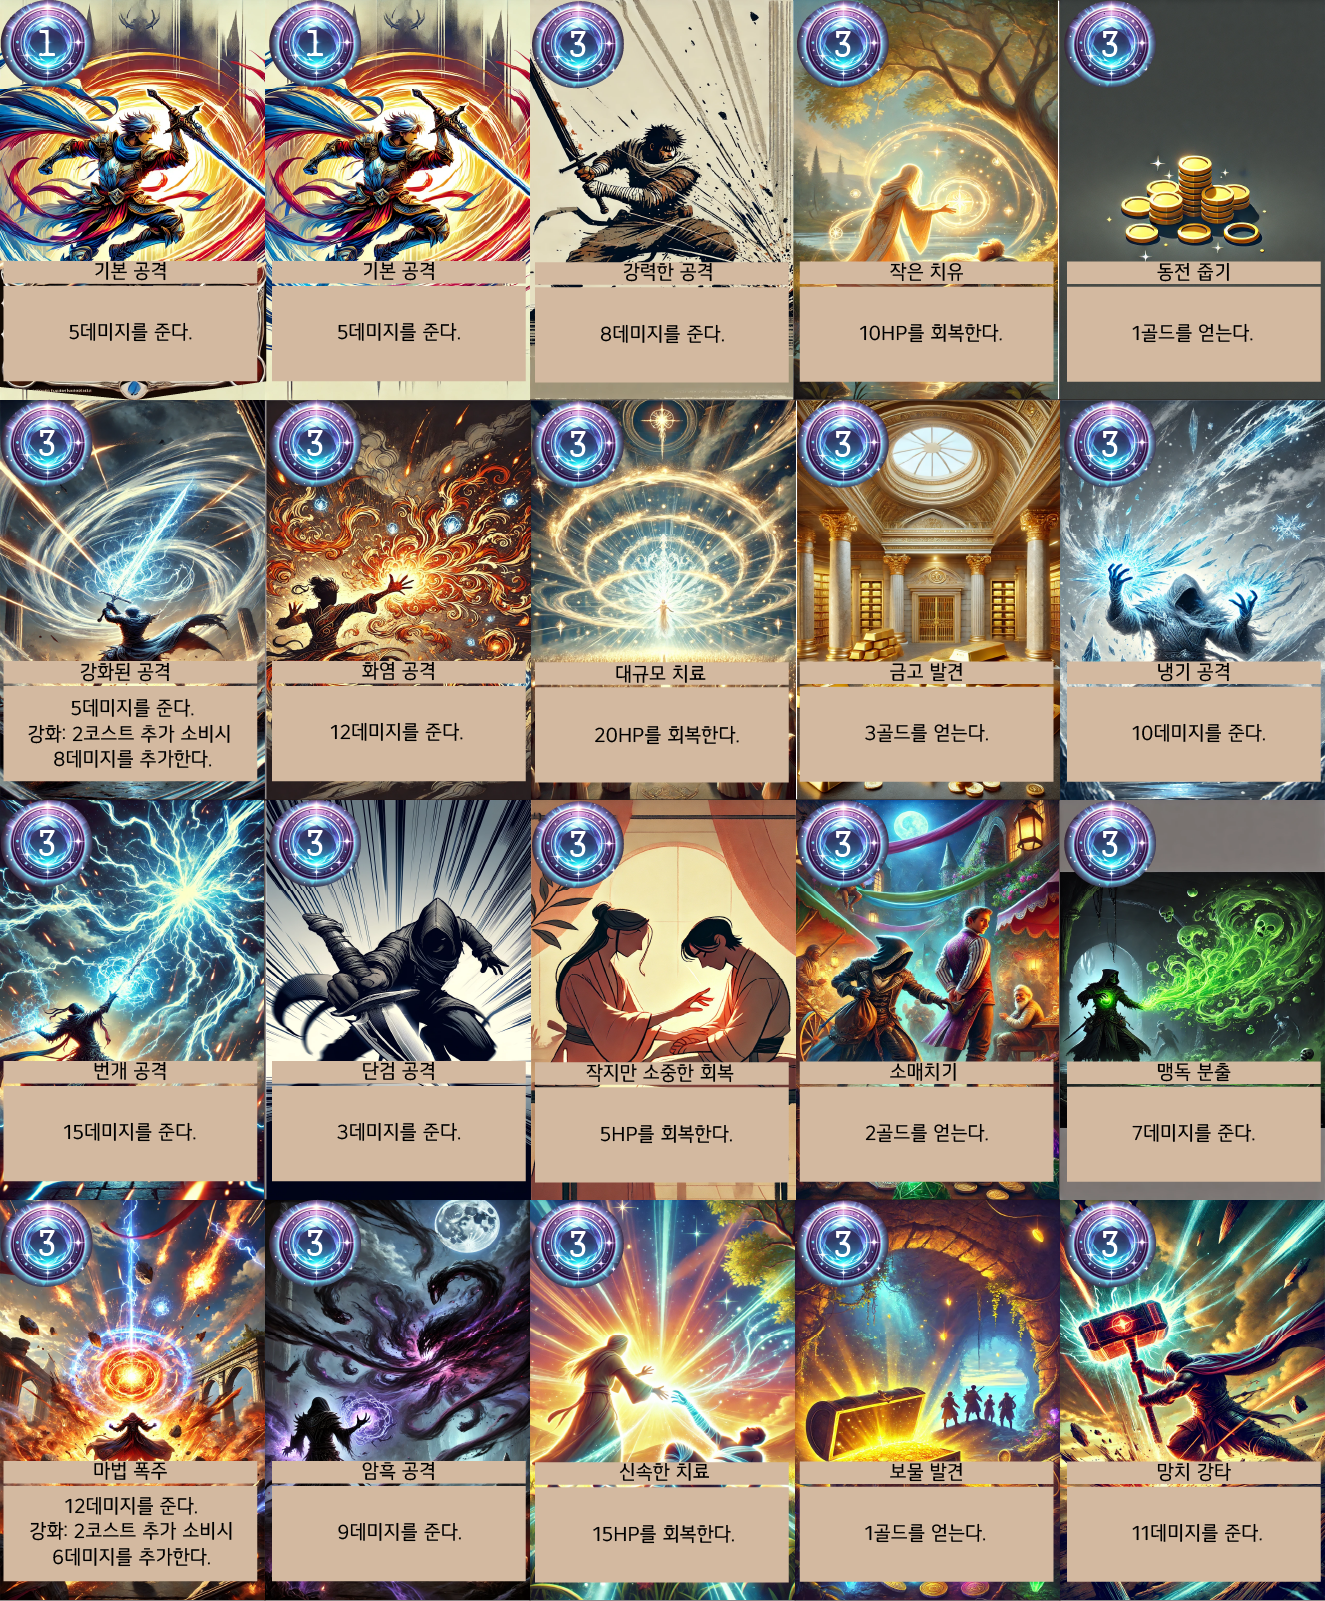
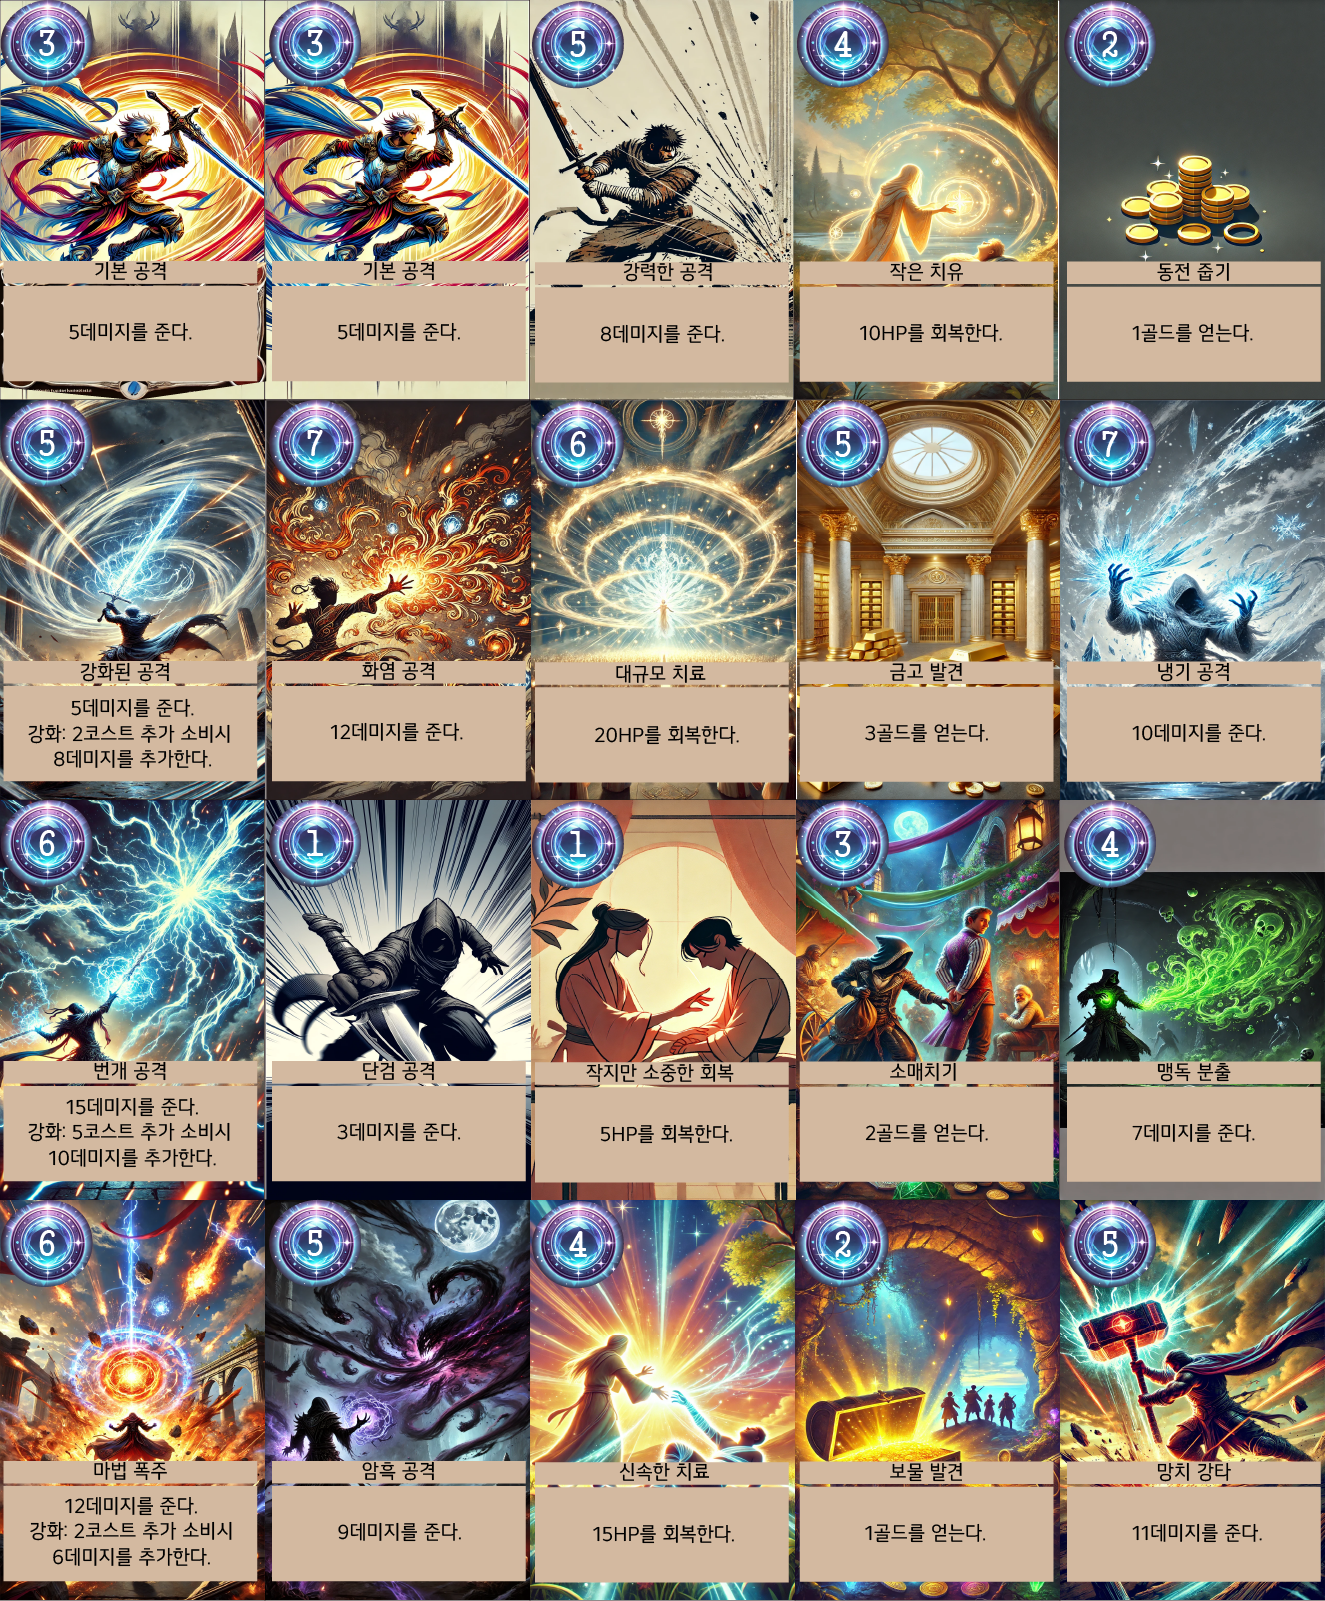
09122147

Changed region(s): [[0.0, 0.0, 0.4023, 0.1874], [0.0309, 0.6871, 0.1547, 0.7495]]

diff --git a/src/components/Card2/index.tsx b/src/components/Card2/index.tsx
@@ -32,7 +32,7 @@ class PlayGame extends Phaser.Scene {
     private maxCostPerTurn: number = 20;
     private currentCost: number = this.maxCostPerTurn;
     private isPlayerAlive: boolean = true;
-    private cards: Card[] = []; // Consider creating a proper type for cards
+    private cards: Card[] = [];
     private gameOptions = {
         totalCards: 20,
         cardsInHand: 6,
@@ -40,7 +40,7 @@ class PlayGame extends Phaser.Scene {
         cardHeight: 400,
         handSizeRatio: 0.5,
         boardSizeRatio: 0.3,
-    }; // Consider creating a proper type for gameOptions
+    };
     private currentPlayerHP!: number;
     private maxPlayerHP!: number;
     private currentGold!: number;
@@ -70,24 +70,24 @@ class PlayGame extends Phaser.Scene {
         this.currentPlayerHP = 0;
         this.initialProps = props;
         this.cards = [
-            { id: 0, type: 'attack', name: '기본 공격 1', damage: 5, cost: 1 },
-            { id: 1, type: 'attack', name: '기본 공격 2', damage: 5, cost: 1 },
-            { id: 2, type: 'attack', name: '강력한 공격', damage: 8, cost: 2 },
-            { id: 3, type: 'heal', name: '치료', healAmount: 10, cost: 2 },
-            { id: 4, type: 'gold', name: '돈 획득', goldAmount: 1, cost: 0 },
+            { id: 0, type: 'attack', name: '기본 공격 1', damage: 5, cost: 3 },
+            { id: 1, type: 'attack', name: '기본 공격 2', damage: 5, cost: 3 },
+            { id: 2, type: 'attack', name: '강력한 공격', damage: 8, cost: 5 },
+            { id: 3, type: 'heal', name: '치료', healAmount: 10, cost: 4 },
+            { id: 4, type: 'gold', name: '돈 획득', goldAmount: 1, cost: 2 },
             {
                 id: 5,
                 type: 'enhanced_attack',
                 name: '강화된 공격',
                 baseDamage: 8,
-                extraCost: 3,
+                extraCost: 2,
                 extraDamage: 5,
-                cost: 2,
+                cost: 5,
             },
-            { id: 6, type: 'attack', name: '화염 공격', damage: 12, cost: 3 },
-            { id: 7, type: 'heal', name: '대규모 치료', healAmount: 20, cost: 4 },
-            { id: 8, type: 'gold', name: '대량 금 획득', goldAmount: 3, cost: 2 },
-            { id: 9, type: 'attack', name: '냉기 공격', damage: 10, cost: 2 },
+            { id: 6, type: 'attack', name: '화염 공격', damage: 12, cost: 7 },
+            { id: 7, type: 'heal', name: '대규모 치료', healAmount: 20, cost: 6 },
+            { id: 8, type: 'gold', name: '대량 금 획득', goldAmount: 3, cost: 5 },
+            { id: 9, type: 'attack', name: '냉기 공격', damage: 10, cost: 7 },
             {
                 id: 10,
                 type: 'enhanced_attack',
@@ -95,25 +95,25 @@ class PlayGame extends Phaser.Scene {
                 baseDamage: 15,
                 extraCost: 5,
                 extraDamage: 10,
-                cost: 3,
+                cost: 6,
             },
             { id: 11, type: 'attack', name: '단검 공격', damage: 3, cost: 1 },
             { id: 12, type: 'heal', name: '응급 치료', healAmount: 5, cost: 1 },
-            { id: 13, type: 'gold', name: '소량 금 획득', goldAmount: 2, cost: 1 },
-            { id: 14, type: 'attack', name: '독 공격', damage: 7, cost: 2 },
+            { id: 13, type: 'gold', name: '소량 금 획득', goldAmount: 2, cost: 3 },
+            { id: 14, type: 'attack', name: '독 공격', damage: 7, cost: 4 },
             {
                 id: 15,
                 type: 'enhanced_attack',
                 name: '폭발 공격',
                 baseDamage: 12,
-                extraCost: 4,
+                extraCost: 2,
                 extraDamage: 6,
-                cost: 2,
+                cost: 6,
             },
-            { id: 16, type: 'attack', name: '암흑 공격', damage: 9, cost: 3 },
-            { id: 17, type: 'heal', name: '신속 치료', healAmount: 15, cost: 3 },
-            { id: 18, type: 'gold', name: '무작위 금 획득', goldAmount: 1, cost: 1 },
-            { id: 19, type: 'attack', name: '마법 공격', damage: 11, cost: 3 },
+            { id: 16, type: 'attack', name: '암흑 공격', damage: 9, cost: 5 },
+            { id: 17, type: 'heal', name: '신속 치료', healAmount: 15, cost: 4 },
+            { id: 18, type: 'gold', name: '무작위 금 획득', goldAmount: 1, cost: 2 },
+            { id: 19, type: 'attack', name: '마법 공격', damage: 11, cost: 5 },
         ];
     }
 
@@ -302,7 +302,7 @@ class PlayGame extends Phaser.Scene {
 
         this.monster = this.add.image(640, 350, 'monster');
         this.monster.setScale(0.45);
-        this.monster.setData('maxHP', 10);
+        this.monster.setData('maxHP', 100);
         this.monster.setData('currentHP', this.monster.getData('maxHP'));
 
         if (this.initialProps) {
@@ -817,14 +817,28 @@ class PlayGame extends Phaser.Scene {
 
             this.dealDamage(totalDamage);
             this.updateCostText();
+
+            // 여기에 몬스터 HP 체크 로직 추가
+            if (this.monster.getData('currentHP') <= 0) {
+                this.handleMonsterDefeat();
+            }
         }
+    }
+
+    // 새로운 메서드 추가
+    handleMonsterDefeat() {
+        this.monster.setVisible(false);
+        this.hpBarBackground.setVisible(false);
+        this.hpBar.setVisible(false);
+        this.handleVictory();
     }
 
     dealDamage = (amount: number): void => {
         console.log('Dealing damage:', amount);
 
         const currentHP = this.monster.getData('currentHP') as number;
-        this.monster.setData('currentHP', Math.max(currentHP - amount, 0));
+        const newHP = Math.max(currentHP - amount, 0);
+        this.monster.setData('currentHP', newHP);
 
         const damageText = this.add
             .text(this.monster.x, this.monster.y - 150, `-${amount}`, {
@@ -845,12 +859,8 @@ class PlayGame extends Phaser.Scene {
         });
 
         this.drawHPBar();
-
-        if (this.monster.getData('currentHP') <= 0) {
-            this.monster.setVisible(false);
-            this.hpBarBackground.setVisible(false);
-            this.hpBar.setVisible(false);
-            this.handleVictory();
+        if (newHP <= 0) {
+            this.handleMonsterDefeat();
         }
     };
     gainGold(amount: number): void {
